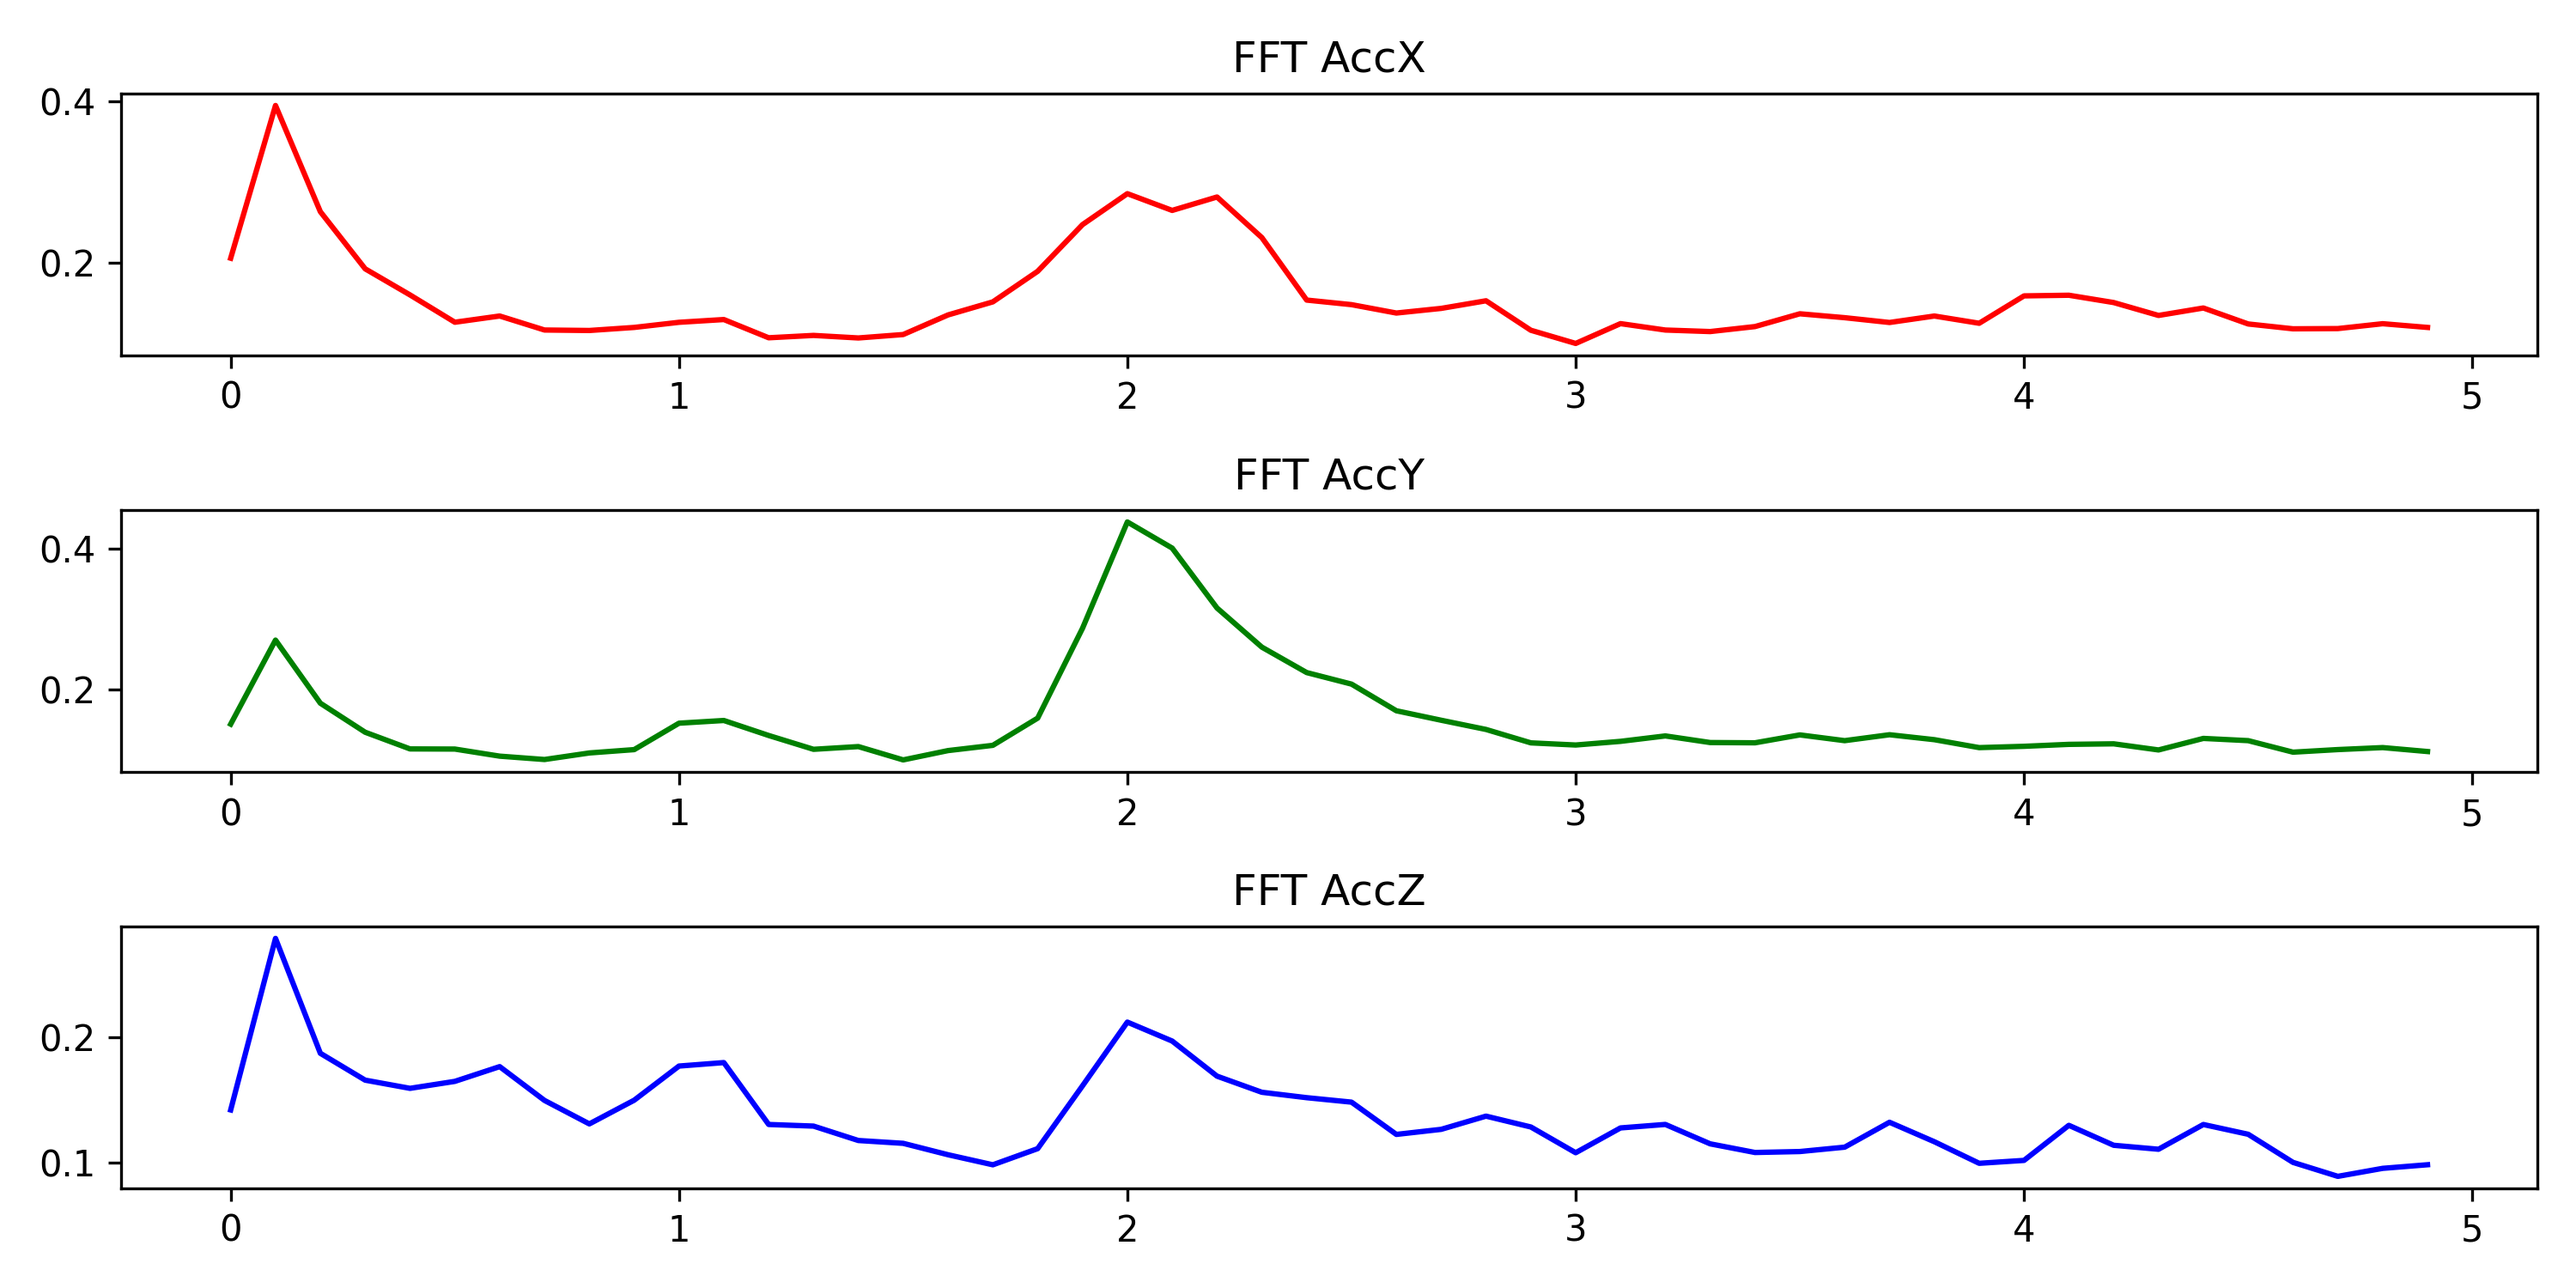
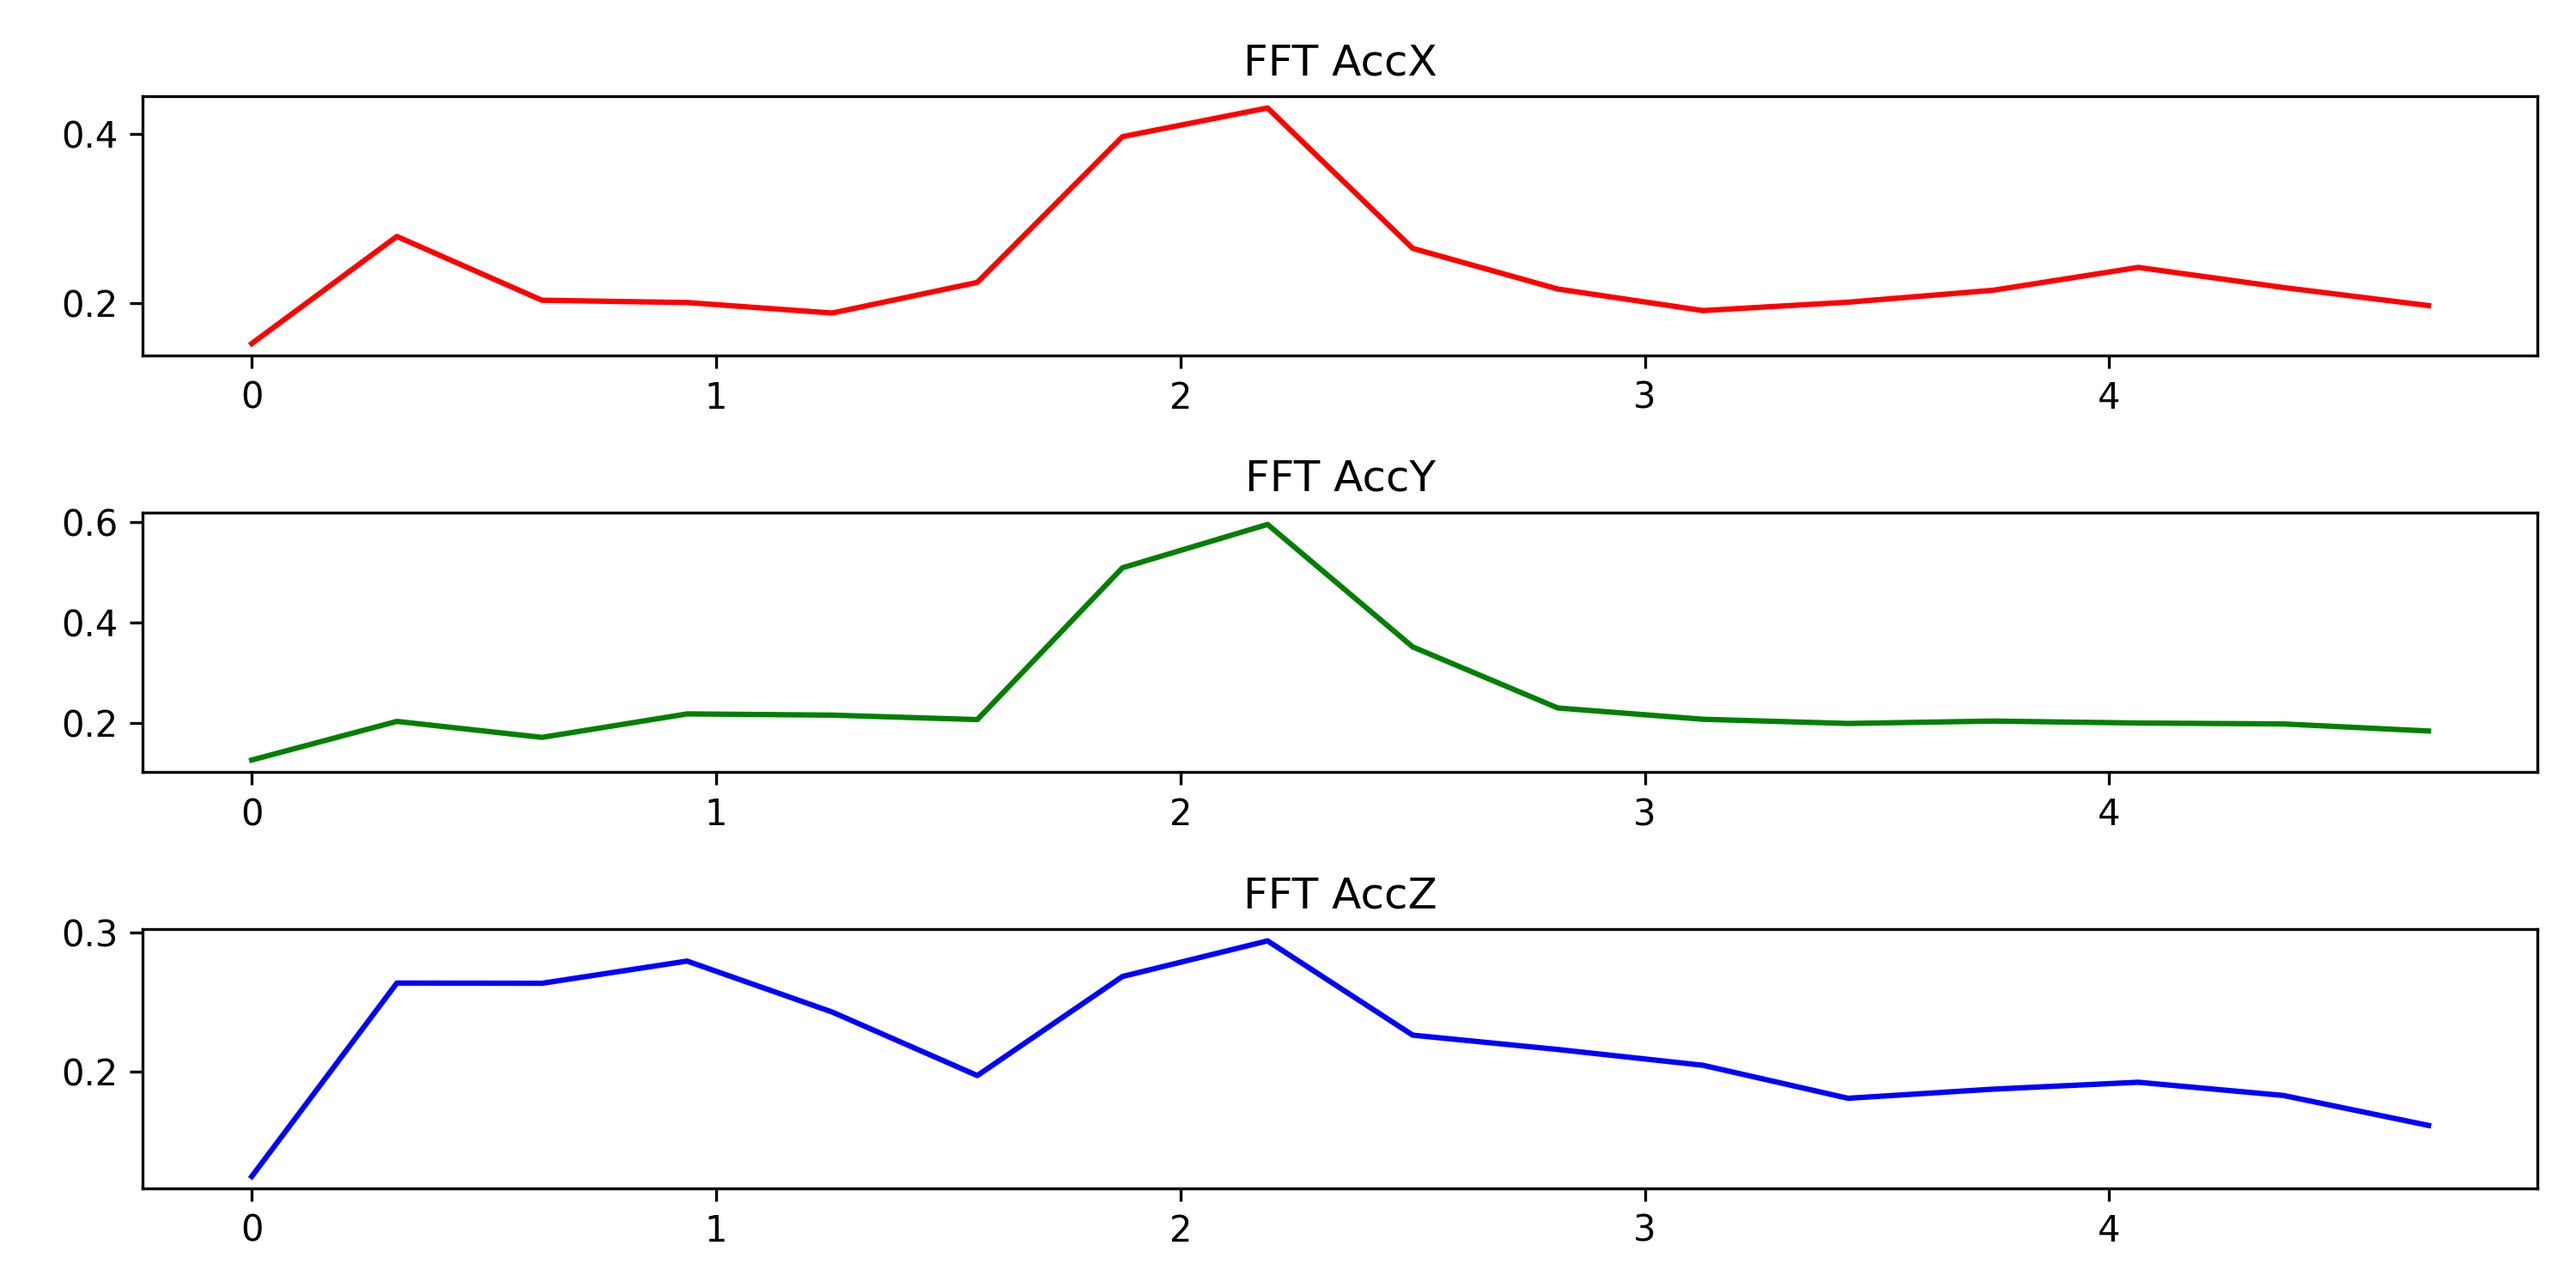
freq

diff --git a/stat/stat_child_2023.py b/stat/stat_child_2023.py
@@ -120,6 +120,8 @@ def show_child_hist_stat3():
         # 计算特征量
         df_stat, df_pearson = calc_df_features(data)
         df_stat.to_csv(f'{all_save_base_path}Child_{label}_features.csv')
+        df_freq_stat.to_csv(f'{all_save_base_path}Child_{label}_freq_features.csv')
+
         df_pearson.to_csv(f'{all_save_base_path}Child_{label}_pearson.csv')
 
 
@@ -281,9 +283,9 @@ def spectral_entropy(df):
     df_acc_z = df['accz'].values
 
     # 使用Welch方法计算功率谱密度 (PSD)
-    _, psd_x = welch(df_acc_x, fs=10)  # 10hz
-    _, psd_y = welch(df_acc_y, fs=10)  # 10hz
-    _, psd_z = welch(df_acc_z, fs=10)  # 10hz
+    _, psd_x = welch(df_acc_x, fs=10, nperseg=len(df))  # 10hz
+    _, psd_y = welch(df_acc_y, fs=10, nperseg=len(df))  # 10hz
+    _, psd_z = welch(df_acc_z, fs=10, nperseg=len(df))  # 10hz
 
     # 归一化 PSD 以形成概率分布
     psd_norm_x = psd_x / np.sum(psd_x)
@@ -488,4 +490,4 @@ def show_child_after_transformed():
 
 
 if __name__ == '__main__':
-    show_child_hist_stat2()
+    show_child_hist_stat3()
